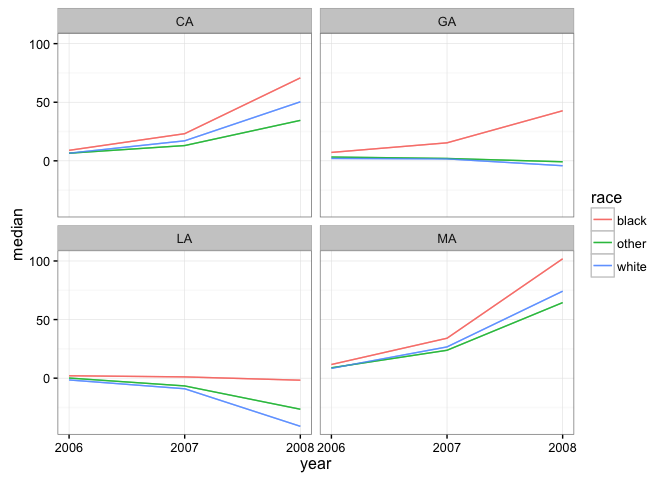
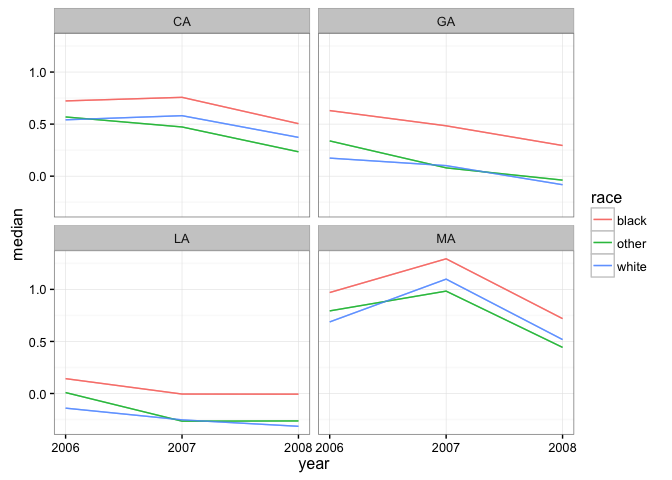
refresh readme

diff --git a/README.md b/README.md
@@ -1,10 +1,8 @@
-[![Build Status](https://travis-ci.org/jamesdunham/dgirt.svg?branch=master)](https://travis-ci.org/jamesdunham/dgirt)
+[![Build Status](https://travis-ci.org/jamesdunham/dgo.svg?branch=master)](https://travis-ci.org/jamesdunham/dgo)
 
-dgirt is an R package for dynamic group-level item response theory (DGIRT) models.
+dgo is an R package for dynamic estimation of group-level opinion.
 
-DGIRT is a Bayesian method for estimating subpopulation groups' average conservatism (or other trait) from individuals' responses to dichotomous questions. It is "dynamic" both in the sense that groups are allowed to evolve over time and in the sense that the model "borrows strength" from other time periods, to a degree specified by the user. [This document](https://github.com/jamesdunham/dgirt/blob/master/inst/dgirt_details.pdf) describes the model in detail.
-
-It is a modified version of the hierarchical group-level IRT model implemented by [Caughey and Warshaw 2015](http://pan.oxfordjournals.org/content/early/2015/02/04/pan.mpu021.full.pdf+html).
+dgo implements DGIRT, a Bayesian method for estimating subpopulation groups' average conservatism (or other trait) from individuals' responses to dichotomous questions. It is "dynamic" both in the sense that groups are allowed to evolve over time and in the sense that the model "borrows strength" from other time periods, to a degree specified by the user. [This document](https://github.com/jamesdunham/dgo/blob/master/inst/dgirt_details.pdf) describes the model in detail. It is a modified version of the hierarchical group-level IRT model implemented by [Caughey and Warshaw 2015](http://pan.oxfordjournals.org/content/early/2015/02/04/pan.mpu021.full.pdf+html).
 
 Prerequisites
 -------------
@@ -14,22 +12,22 @@ Installation requires [RStan](http://mc-stan.org/interfaces/rstan.html) and its 
 Installation
 ------------
 
-dgirt can be installed from [GitHub](https://github.com/jamesdunham/dgirt) using [devtools](https://github.com/hadley/devtools/):
+dgo can be installed from [GitHub](https://github.com/jamesdunham/dgo) using [devtools](https://github.com/hadley/devtools/):
 
-    devtools::install_github("jamesdunham/dgirt", dependencies = TRUE)
+    devtools::install_github("jamesdunham/dgo", dependencies = TRUE)
 
 Getting started
 ---------------
 
 ``` r
-library(dgirt)
+library(dgo)
 #> Loading required package: Rcpp
 ```
 
 The minimal workflow from raw data to estimation is:
 
 1.  shape input data using the `shape` function; and
-2.  pass the result to the `dgirt` function to fit a dgirt model.
+2.  pass the result to the `dgirt` function to fit a DGIRT model.
 
 ### Set RStan options
 
@@ -42,7 +40,7 @@ options(mc.cores = parallel::detectCores())
 
 ### Prepare input data with `shape`
 
-dgirt models are *dynamic*, so we need to specify which variable in the data represents time. They are also *group-level*, with groups defined by one variable for respondents' local geographic area and one or more variables for respondent characteristics.
+DGIRT models are *dynamic*, so we need to specify which variable in the data represents time. They are also *group-level*, with groups defined by one variable for respondents' local geographic area and one or more variables for respondent characteristics.
 
 The `time_filter` and `geo_filter` arguments optionally subset the data. Finally, `shape` requires the names of the survey identifier and survey weight variables in the data.
 
@@ -114,7 +112,7 @@ dgirt_out <- dgirt(dgirt_in, iter = 1500, chains = 4, cores = 4, seed = 42,
                    refresh = 0)
 ```
 
-The model results are held in a `dgirtfit` object. Methods from RStan like `extract` are available if needed because `dgirtfit` is a subclass of `stanfit`. But dgirt provides its own methods for typical post-estimation tasks.
+The model results are held in a `dgirtfit` object. Methods from RStan like `extract` are available if needed because `dgirtfit` is a subclass of `stanfit`. But dgo provides its own methods for typical post-estimation tasks.
 
 ### Work with `dgirt` results
 
@@ -123,56 +121,56 @@ For a high-level summary of the result, use `summary`.
 ``` r
 summary(dgirt_out)
 #> dgirt samples from 4 chains of 1500 iterations, 750 warmup, thinned every 1 
-#>   Drawn Fri Aug 26 08:19:58 2016 
-#>   Package version 0.2.4 
-#>   Model version 2016_08_11 
-#>   86 parameters; 36 theta_bars (year, state and race)
+#>   Drawn Wed Oct 12 17:51:36 2016 
+#>   Package version 0.2.7 
+#>   Model version 2016_09_14 
+#>   87 parameters; 36 theta_bars (year, state and race)
 #>   3 periods 2006 to 2008 
 #> 
 #> n_eff
 #>    Min. 1st Qu.  Median    Mean 3rd Qu.    Max. 
-#>   15.55  315.70  536.30  856.80 1148.00 3000.00
+#>   12.80   32.86  164.10  498.70  668.90 3000.00
 #> 
 #> Rhat
 #>    Min. 1st Qu.  Median    Mean 3rd Qu.    Max.    NA's 
-#>  0.9987  1.0020  1.0060  1.0070  1.0100  1.0260       1
+#>  0.9987  1.0090  1.0340  1.0680  1.1020  1.3440       1
 #> 
 #> Elapsed time
 #>    chain warmup sample total
-#> 1:     1    28S    26S   54S
-#> 2:     2    27S    26S   53S
-#> 3:     3    30S    26S   56S
-#> 4:     4    30S    27S   57S
+#> 1:     1    24S    23S   47S
+#> 2:     2    23S    12S   35S
+#> 3:     3    23S    26S   49S
+#> 4:     4    23S    11S   34S
 ```
 
 To summarize posterior samples, use `summarize`. The default output gives summary statistics for the `theta_bar` parameters, which represent the mean of the latent outcome for the groups defined by time, local geographic area, and the demographic characteristics specified in the earlier call to `shape`.
 
 ``` r
 head(summarize(dgirt_out))
-#>        param state  race year       mean         sd    median    q_025
-#> 1: theta_bar    CA black 2006   9.800682   5.075017  8.950097 2.859070
-#> 2: theta_bar    CA black 2007  29.522746  24.099714 23.172774 6.725454
-#> 3: theta_bar    CA black 2008 149.768144 346.296790 70.781306 7.521626
-#> 4: theta_bar    CA other 2006   7.221263   3.845966  6.498232 2.050227
-#> 5: theta_bar    CA other 2007  17.289936  15.439826 13.028520 3.030528
-#> 6: theta_bar    CA other 2008  81.398526 212.647094 34.528919 2.935586
+#>        param state  race year      mean         sd    median      q_025
+#> 1: theta_bar    CA black 2006 0.7313650 0.07382754 0.7227690 0.59176969
+#> 2: theta_bar    CA black 2007 0.7495567 0.15265220 0.7573332 0.45713464
+#> 3: theta_bar    CA black 2008 0.5094344 0.10957805 0.5044693 0.30718504
+#> 4: theta_bar    CA other 2006 0.5719195 0.07254187 0.5688034 0.43018528
+#> 5: theta_bar    CA other 2007 0.4556545 0.14006876 0.4726040 0.17145830
+#> 6: theta_bar    CA other 2008 0.2286040 0.08608999 0.2342414 0.05529104
 #>        q_975
-#> 1:  21.96886
-#> 2:  90.42006
-#> 3: 702.67306
-#> 4:  16.54213
-#> 5:  61.22678
-#> 6: 404.08954
+#> 1: 0.8833364
+#> 2: 1.0433169
+#> 3: 0.7227528
+#> 4: 0.7218028
+#> 5: 0.7031576
+#> 6: 0.3914443
 ```
 
 Alternatively, `summarize` can apply arbitrary functions to posterior samples for whatever parameter is given by its `pars` argument. Enclose function names with quotes. For convenience, `"q_025"` and `"q_975"` give the 2.5th and 97.5th posterior quantiles.
 
 ``` r
 summarize(dgirt_out, pars = "xi", funs = "var")
-#>    param year      var
-#> 1:    xi 2006 24.16381
-#> 2:    xi 2007 27.57924
-#> 3:    xi 2008 60.28344
+#>    param year        var
+#> 1:    xi 2006 0.01731874
+#> 2:    xi 2007 0.08775190
+#> 3:    xi 2008 0.08601946
 ```
 
 To access posterior samples in tabular form use `as.data.frame`. By default, this method returns post-warmup samples for the `theta_bar` parameters, but like other methods takes a `pars` argument.
@@ -180,12 +178,12 @@ To access posterior samples in tabular form use `as.data.frame`. By default, thi
 ``` r
 head(as.data.frame(dgirt_out))
 #>        param state  race year iteration     value
-#> 1: theta_bar    CA black 2006         1  8.754243
-#> 2: theta_bar    CA black 2006         2  5.175876
-#> 3: theta_bar    CA black 2006         3 14.378213
-#> 4: theta_bar    CA black 2006         4 17.340792
-#> 5: theta_bar    CA black 2006         5 19.528374
-#> 6: theta_bar    CA black 2006         6 17.078189
+#> 1: theta_bar    CA black 2006         1 0.7792932
+#> 2: theta_bar    CA black 2006         2 0.5651822
+#> 3: theta_bar    CA black 2006         3 0.7411416
+#> 4: theta_bar    CA black 2006         4 0.7830560
+#> 5: theta_bar    CA black 2006         5 0.8044931
+#> 6: theta_bar    CA black 2006         6 0.7175995
 ```
 
 To poststratify the results use `poststratify`. The following example uses the group population proportions bundled as `state_year_targets` to reweight and aggregate estimates to strata defined by state-years. Read `help("poststratify")` for more details.
@@ -194,18 +192,18 @@ To poststratify the results use `poststratify`. The following example uses the g
 poststratify(dgirt_out, state_year_targets, strata_names = c("state", "year"),
              aggregated_names = "race")
 #>     state year       value
-#>  1:    CA 2006   7.3515956
-#>  2:    CA 2007  21.2947038
-#>  3:    CA 2008 102.6553194
-#>  4:    GA 2006   4.0615232
-#>  5:    GA 2007   7.8487587
-#>  6:    GA 2008  22.7679818
-#>  7:    LA 2006  -0.4403615
-#>  8:    LA 2007  -7.5520691
-#>  9:    LA 2008 -57.0560250
-#> 10:    MA 2006   9.4479394
-#> 11:    MA 2007  33.7456582
-#> 12:    MA 2008 159.0233212
+#>  1:    CA 2006  0.56257458
+#>  2:    CA 2007  0.56187201
+#>  3:    CA 2008  0.34683927
+#>  4:    GA 2006  0.31502381
+#>  5:    GA 2007  0.21040094
+#>  6:    GA 2008  0.03422257
+#>  7:    LA 2006 -0.04473326
+#>  8:    LA 2007 -0.18798638
+#>  9:    LA 2008 -0.22418653
+#> 10:    MA 2006  0.70691300
+#> 11:    MA 2007  1.09862611
+#> 12:    MA 2008  0.52356572
 ```
 
 To plot the results use `dgirt_plot`. This method plots summaries of posterior samples by time period. By default, it shows a 95% credible interval around posterior medians for the `theta_bar` parameters, for each local geographic area. For this (unconverged) toy example we omit the CIs.
@@ -231,12 +229,12 @@ ps <- poststratify(dgirt_out, state_year_targets,
                    strata_names = c("state", "year"), aggregated_names = "race")
 head(ps)
 #>    state year      value
-#> 1:    CA 2006   7.351596
-#> 2:    CA 2007  21.294704
-#> 3:    CA 2008 102.655319
-#> 4:    GA 2006   4.061523
-#> 5:    GA 2007   7.848759
-#> 6:    GA 2008  22.767982
+#> 1:    CA 2006 0.56257458
+#> 2:    CA 2007 0.56187201
+#> 3:    CA 2008 0.34683927
+#> 4:    GA 2006 0.31502381
+#> 5:    GA 2007 0.21040094
+#> 6:    GA 2008 0.03422257
 dgirt_plot(ps, group_names = NULL, time_name = "year", geo_name = "state")
 ```
 
@@ -245,7 +243,7 @@ dgirt_plot(ps, group_names = NULL, time_name = "year", geo_name = "state")
 Troubleshooting
 ---------------
 
-Please [report issues](https://github.com/jamesdunham/dgirt/issues) that you encounter.
+Please [report issues](https://github.com/jamesdunham/dgo/issues) that you encounter.
 
 OS X only: RStan creates temporary files during estimation in a location given by `tempdir`, typically an arbitrary location in `/var/folders`. If a model runs for days, these files can be cleaned up while still needed, which induces an error. A good solution is to set a safer path for temporary files, using an environment variable checked at session startup. As described in `?tempdir`,
 
@@ -262,8 +260,8 @@ tempdir()
 Contributing and citing
 -----------------------
 
-dgirt is under development and we welcome [suggestions](https://github.com/jamesdunham/dgirt/issues).
+dgo is under development and we welcome [suggestions](https://github.com/jamesdunham/dgo/issues).
 
 The package citation is
 
-> Dunham, James, Devin Caughey, and Christopher Warshaw. 2016. dgirt: Dynamic Group-level IRT Models in R. R package. <https://jamesdunham.github.io/dgirt/>.
+> Dunham, James, Devin Caughey, and Christopher Warshaw. 2016. dgo: Dynamic Estimation of Group-level Opinion. R package. <https://jamesdunham.github.io/dgo/>.
